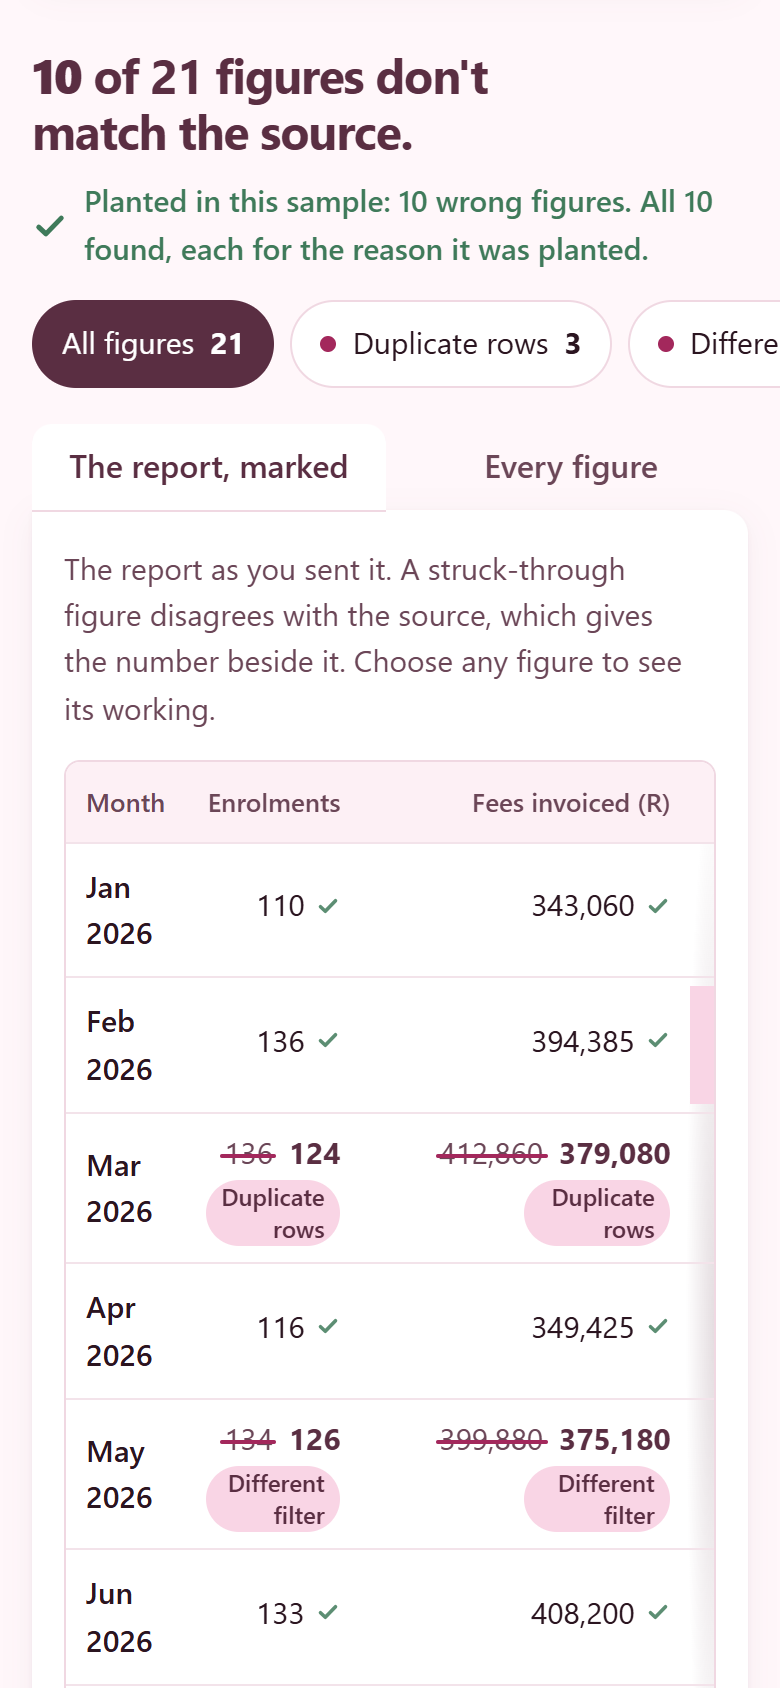
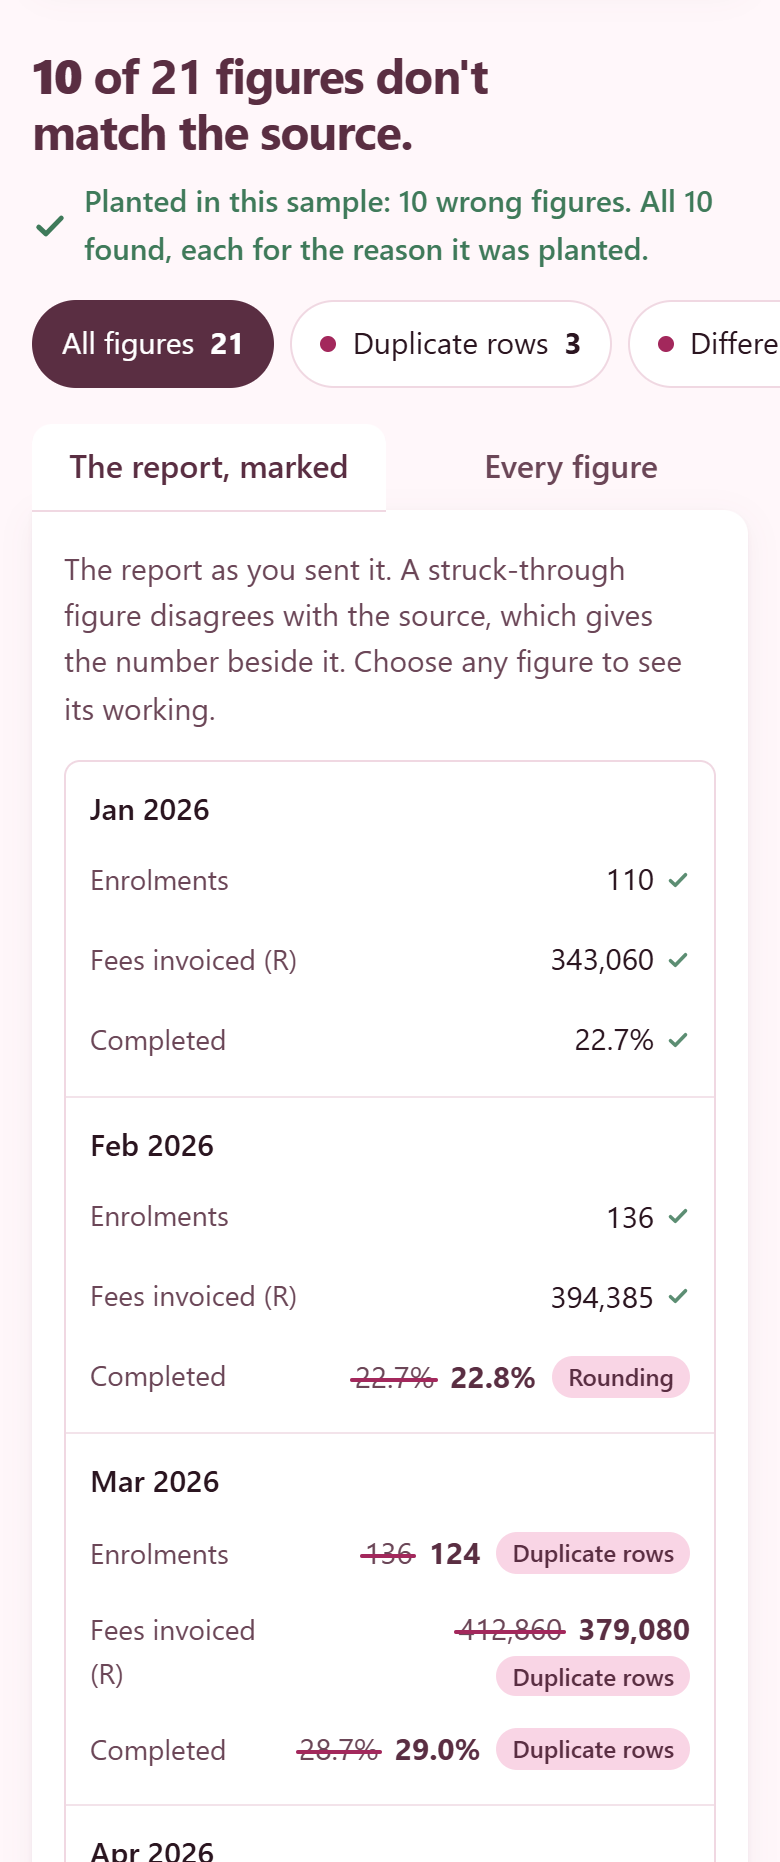
show the marked report as row blocks on phones

diff --git a/site/assets/styles.css b/site/assets/styles.css
@@ -406,8 +406,20 @@ code {
   .view-tabs [role="tab"] { padding: 0 12px; flex: 1; }
   th, td.key, td.plain { padding-left: 10px; padding-right: 10px; }
   .fig { padding: 8px 10px; }
-  .fig .tag { white-space: normal; text-align: right; max-width: 11ch; line-height: 1.3; }
-  td.key { white-space: normal; min-width: 5.5ch; max-width: 7ch; }
+  /* on a phone each report row becomes a block, one labelled line per figure */
+  .table-wrap { background: none; }
+  .table-wrap table, .table-wrap tbody { display: block; }
+  .table-wrap thead { display: none; }
+  .table-wrap tr { display: flex; flex-wrap: wrap; align-items: baseline; gap: 0 8px; padding: 8px 0; border-bottom: 1px solid var(--grid); }
+  .table-wrap tbody tr:last-child { border-bottom: 0; }
+  .table-wrap tr.total { border-top: 1.5px solid var(--pink-3); }
+  .table-wrap td { display: block; border: 0; position: static; background: none; }
+  tr.total td { border-top: 0; }
+  .table-wrap td.key { padding: 4px 12px; }
+  .table-wrap td[data-label] { flex: 1 1 100%; display: flex; align-items: center; justify-content: space-between; gap: 12px; padding: 0 0 0 12px; white-space: normal; }
+  .table-wrap td[data-label]::before { content: attr(data-label); color: var(--muted); font-size: 0.875rem; font-weight: 400; text-align: left; flex: 0 1 auto; }
+  .table-wrap td.plain { padding: 8px 12px; }
+  .fig { width: auto; flex-direction: row; flex-wrap: wrap; justify-content: flex-end; align-items: center; column-gap: 8px; padding: 6px 12px; min-height: 40px; }
   .lede { font-size: 1rem; margin-bottom: 14px; }
   .intro { padding-top: 24px; gap: 20px; }
   h1 { margin-bottom: 12px; }

diff --git a/site/assets/app.js b/site/assets/app.js
@@ -314,7 +314,7 @@ function renderMarked() {
     return h('tr', { class: isTotal ? 'total' : null }, cells.map((text, c) => {
       if (keyCols.has(c)) return h('td', { class: 'key' }, text);
       const f = measureAt.has(c) ? figures.get(`${ri}|${measureAt.get(c)}`) : null;
-      if (!f) return h('td', { class: 'plain' }, text);
+      if (!f) return h('td', { class: 'plain', 'data-label': report.headers[c] }, text);
       const miss = f.status === 'mismatch';
       const label = `${f.row}, ${f.measure}: the report says ${text}, the source gives ${sourceText(f)}. ${miss ? f.reason.title : 'Matches'}.`;
       const btn = h('button', {
@@ -325,7 +325,7 @@ function renderMarked() {
       }, miss
         ? [h('span', { class: 'pair' }, h('span', { class: 'was' }, text), h('span', { class: 'now' }, sourceText(f))), h('span', { class: 'tag' }, f.reason.title)]
         : h('span', { class: 'now' }, text, icon('tick')));
-      return h('td', {}, btn);
+      return h('td', { 'data-label': report.headers[c] }, btn);
     }));
   });
   $('[data-marked]').replaceChildren(h('table', {},

diff --git a/DESIGN.md b/DESIGN.md
@@ -45,6 +45,6 @@ There is one moment: when results land, each wrong figure's strike draws from le
 - Desktop: the claim on the left and the samples on the right, then the two file slots side by side, the rules, and the results full width.
 - Below 960px: one column, with the samples straight after the claim. Rule rows fold to two columns and the "Every figure" lines become small cards.
 - Below 720px: the file slots stack, and the nav keeps only the code link.
-- Below 480px: 16px side gutters, 44px tap targets on every control, a smaller lede so the samples start sooner, and the report table scrolls sideways inside its frame, with the first column held in place, reason tags wrapping, and a soft shadow on the right edge while there is more to see.
+- Below 480px: 16px side gutters, 44px tap targets on every control, a smaller lede so the samples start sooner, and the marked report turns from a table into one block per report row, with each figure on its own labelled line (label left, figure and reason tag right). Wider screens keep the table, which scrolls sideways inside its frame with the first column held in place.
 
 The page has no horizontal scroll at 375px (checked in the browser, 25 Oct 2026), and the design detector reports nothing on `site/`.

diff --git a/README.md b/README.md
@@ -70,7 +70,7 @@ An `.xlsx` file is a zip of XML files. [src/xlsx.js](src/xlsx.js) reads the zip 
 
 How each one is made, and why the totals carry what they carry, is in [docs/SAMPLES.md](docs/SAMPLES.md).
 
-![The checker on a phone: the verdict, the planted line, a scrolling row of reason chips and the marked report with struck-through figures](docs/img/phone.png)
+<p align="center"><img src="docs/img/phone.png" width="300" alt="The checker on a phone: the verdict, the planted line, a scrolling row of reason chips and the marked report with struck-through figures"></p>
 
 ## How it is built
 
